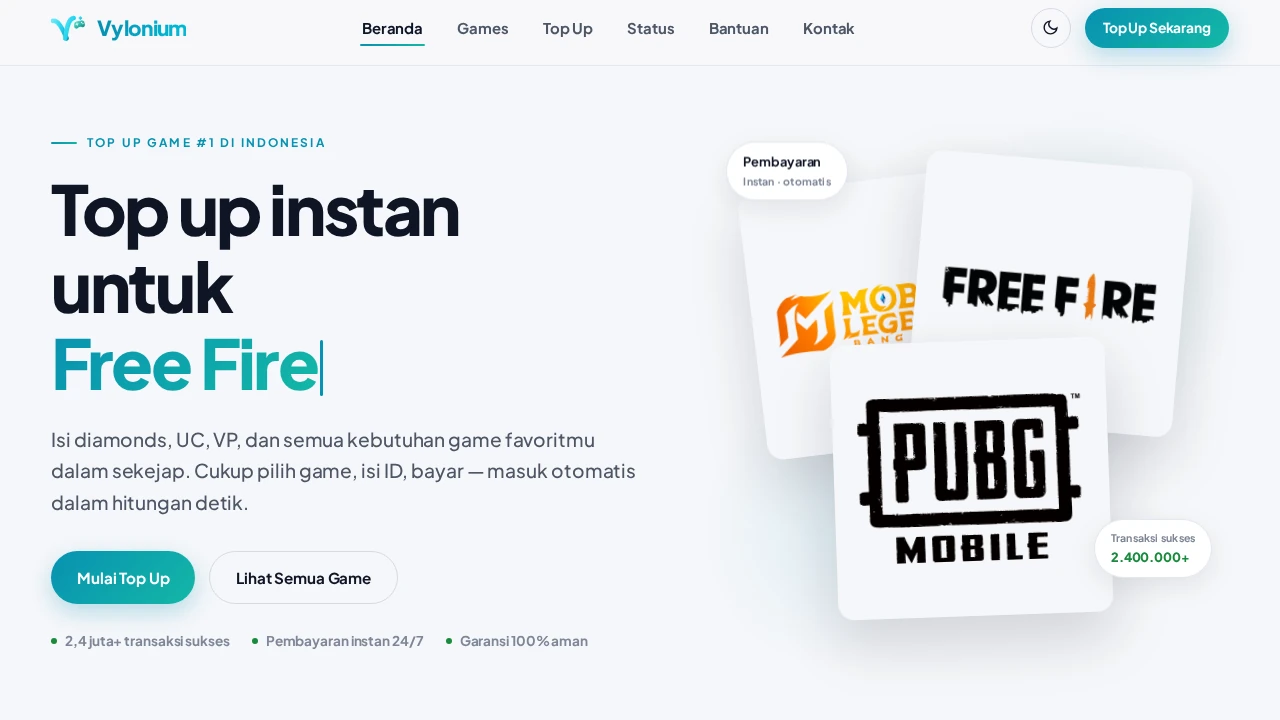
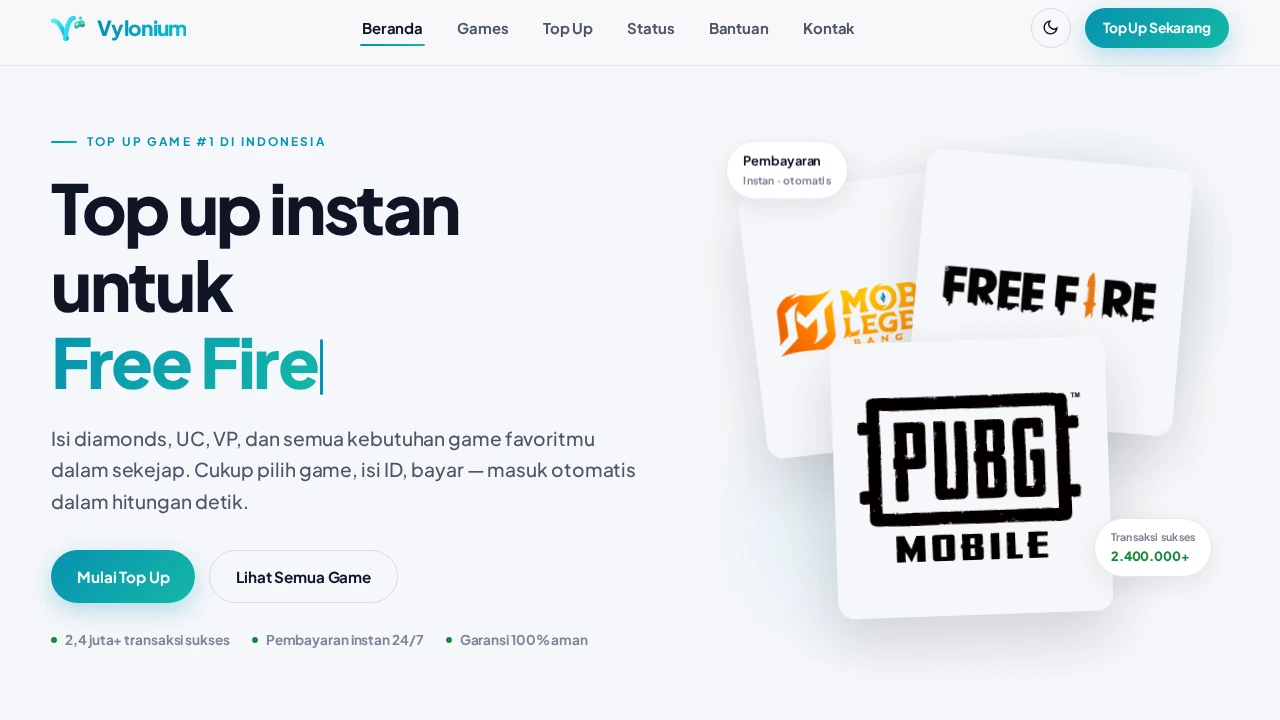
sync(template): perbarui template Top Up Game dari repo vylonium-topup (84a18ab)

diff --git a/index.html b/index.html
@@ -435,7 +435,7 @@
                 </div>
                 <div class="w-full border border-gray-100 rounded-xl overflow-hidden hover:shadow-md transition-shadow duration-300 cursor-pointer group relative bg-white">
                     <div class="w-full aspect-video sm:h-80 overflow-hidden bg-[#F9FAFB]">
-                        <img src="assets/templates/topup.webp?v=3" alt="Pratinjau Top Up Game" class="w-full h-full object-cover group-hover:scale-[1.02] transition-transform duration-300">
+                        <img src="assets/templates/topup.webp?v=4" alt="Pratinjau Top Up Game" class="w-full h-full object-cover group-hover:scale-[1.02] transition-transform duration-300">
                     </div>
                     <div class="flex justify-between items-end gap-3 w-full p-4">
                         <div class="flex flex-col flex-1 overflow-hidden">

diff --git a/js/templates-data.js b/js/templates-data.js
@@ -256,7 +256,7 @@ var ClincooTemplates = (function () {
     var imgWrap = document.createElement('div');
     imgWrap.className = 'w-full aspect-video bg-gray-50 rounded-xl overflow-hidden';
     var img = document.createElement('img');
-    img.src = IMG_BASE + key + '.webp?v=3';
+    img.src = IMG_BASE + key + '.webp?v=4';
     img.alt = 'Pratinjau ' + t.name;
     img.className = 'w-full h-full object-cover';
     imgWrap.appendChild(img);
